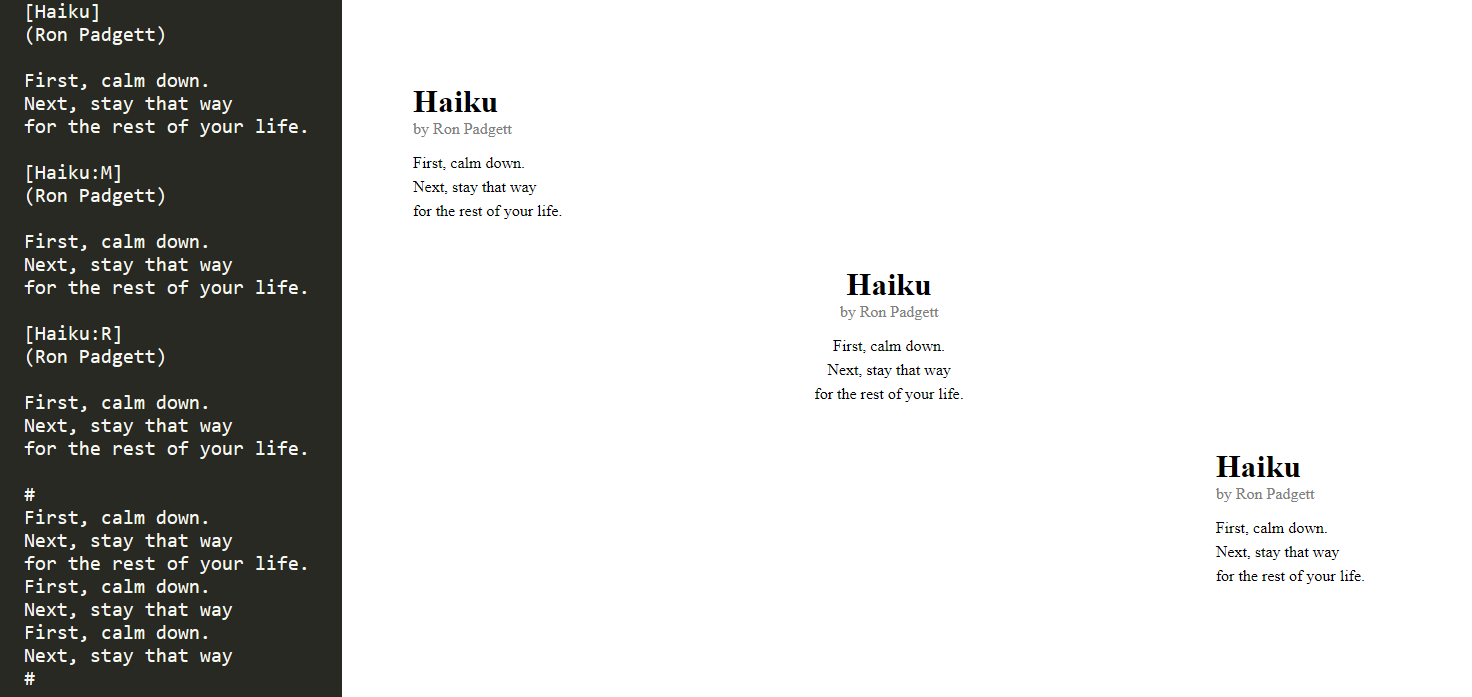
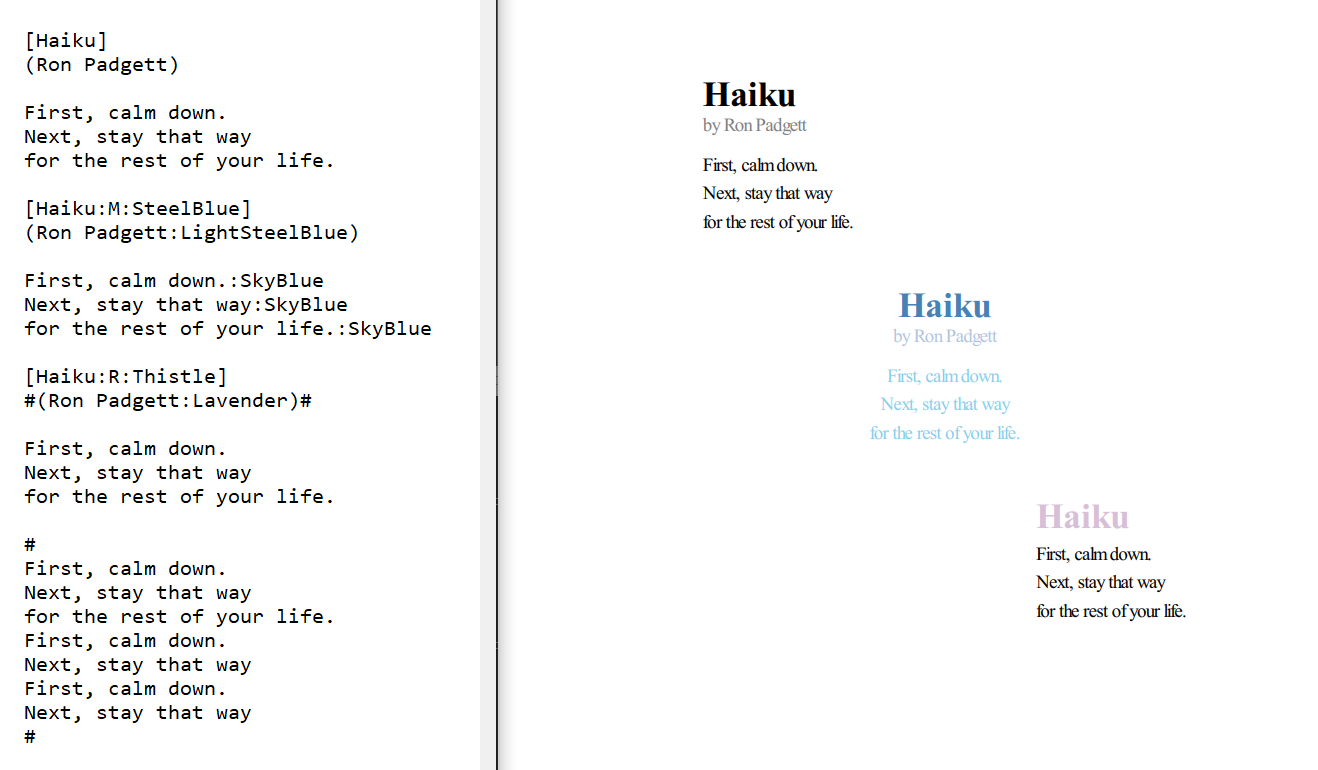
NEW: Add HTML Colors

diff --git a/haiku.html b/haiku.html
@@ -5,26 +5,25 @@
 <body>
 <div class="haiku" style="margin: auto; width: 50%;">
 <br>
-<h1 style="font-weight: bold; margin-bottom: 0px;">Haiku</h1>
-<p style="color:gray;  margin-top: 0px;">by Ron Padgett</p>
-<p style="margin-bottom: 6px; margin-top: 6px;">First, calm down.</p>
-<p style="margin-bottom: 6px; margin-top: 6px;">Next, stay that way</p>
-<p style="margin-bottom: 6px; margin-top: 6px;">for the rest of your life.</p>
+<h1 style="font-weight: bold; margin-bottom: 0px; color: black;">Haiku</h1>
+<p style="color: gray;  margin-top: 0px;">by Ron Padgett</p>
+<p style="margin-bottom: 6px; margin-top: 6px; color: black;">First, calm down.</p>
+<p style="margin-bottom: 6px; margin-top: 6px; color: black;">Next, stay that way</p>
+<p style="margin-bottom: 6px; margin-top: 6px; color: black;">for the rest of your life.</p>
 <br>
 <center>
-<h1 style="font-weight: bold; margin-bottom: 0px;">Haiku</h1>
-<p style="color:gray;  margin-top: 0px;">by Ron Padgett</p>
-<p style="margin-bottom: 6px; margin-top: 6px;">First, calm down.</p>
-<p style="margin-bottom: 6px; margin-top: 6px;">Next, stay that way</p>
-<p style="margin-bottom: 6px; margin-top: 6px;">for the rest of your life.</p>
+<h1 style="font-weight: bold; margin-bottom: 0px; color: SteelBlue;">Haiku</h1>
+<p style="color: LightSteelBlue;  margin-top: 0px;">by Ron Padgett</p>
+<p style="margin-bottom: 6px; margin-top: 6px; color: SkyBlue;">First, calm down.</p>
+<p style="margin-bottom: 6px; margin-top: 6px; color: SkyBlue;">Next, stay that way</p>
+<p style="margin-bottom: 6px; margin-top: 6px; color: SkyBlue;">for the rest of your life.</p>
 <br>
 </center>
 <div style="float: right;">
-<h1 style="font-weight: bold; margin-bottom: 0px;">Haiku</h1>
-<p style="color:gray;  margin-top: 0px;">by Ron Padgett</p>
-<p style="margin-bottom: 6px; margin-top: 6px;">First, calm down.</p>
-<p style="margin-bottom: 6px; margin-top: 6px;">Next, stay that way</p>
-<p style="margin-bottom: 6px; margin-top: 6px;">for the rest of your life.</p>
+<h1 style="font-weight: bold; margin-bottom: 0px; color: Thistle;">Haiku</h1>
+<p style="margin-bottom: 6px; margin-top: 6px; color: black;">First, calm down.</p>
+<p style="margin-bottom: 6px; margin-top: 6px; color: black;">Next, stay that way</p>
+<p style="margin-bottom: 6px; margin-top: 6px; color: black;">for the rest of your life.</p>
 </div>
 </body>
 </html>

diff --git a/settings.py b/settings.py
@@ -9,6 +9,27 @@ comment_symbol = '#'
 middle_marker = ':M'
 right_marker = ':R'
 
+colors = [":IndianRed", ":LightCoral", ":Salmon", ":DarkSalmon", ":LightSalmon", ":Crimson", ":Red", ":FireBrick",
+          ":DarkRed", ":Pink", ":LightPink", ":HotPink", ":DeepPink", ":MediumVioletRed", ":PaleVioletRed",
+          ":LightSalmon", ":Coral", ":Tomato", ":OrangeRed", ":DarkOrange", ":Orange", ":Gold", ":Yellow",
+          ":LightYellow", ":LemonChiffon", ":LightGoldenrodYellow", ":PapayaWhip", ":Moccasin", ":PeachPuff",
+          ":PaleGoldenrod", ":Khaki", ":DarkKhaki", ":Lavender", ":Thistle", ":Plum", ":Violet", ":Orchid", ":Fuchsia",
+          ":Magenta", ":MediumOrchid", ":MediumPurple", ":RebeccaPurple", ":BlueViolet", ":DarkViolet", ":DarkOrchid",
+          ":DarkMagenta", ":Purple", ":Indigo", ":SlateBlue", ":DarkSlateBlue", ":MediumSlateBlue", ":GreenYellow",
+          ":Chartreuse", ":LawnGreen", ":Lime", ":LimeGreen", ":PaleGreen", ":LightGreen", ":MediumSpringGreen",
+          ":SpringGreen", ":MediumSeaGreen", ":SeaGreen", ":ForestGreen", ":Green", ":DarkGreen", ":YellowGreen",
+          ":OliveDrab", ":Olive", ":DarkOliveGreen", ":MediumAquamarine", ":DarkSeaGreen", ":LightSeaGreen",
+          ":DarkCyan", ":Teal", ":Aqua", ":Cyan", ":LightCyan", ":PaleTurquoise", ":Aquamarine", ":Turquoise",
+          ":MediumTurquoise", ":DarkTurquoise", ":CadetBlue", ":SteelBlue", ":LightSteelBlue", ":PowderBlue",
+          ":LightBlue", ":SkyBlue", ":LightSkyBlue", ":DeepSkyBlue", ":DodgerBlue", ":CornflowerBlue",
+          ":MediumSlateBlue", ":RoyalBlue", ":Blue", ":MediumBlue", ":DarkBlue", ":Navy", ":MidnightBlue",
+          ":Cornsilk", ":BlanchedAlmond", ":Bisque", ":NavajoWhite", ":Wheat", ":BurlyWood", ":Tan", ":RosyBrown",
+          ":SandyBrown", ":Goldenrod", ":DarkGoldenrod", ":Peru", ":Chocolate", ":SaddleBrown", ":Sienna", ":Brown",
+          ":Maroon", ":White", ":Snow", ":HoneyDew", ":MintCream", ":Azure", ":AliceBlue", ":GhostWhite", ":WhiteSmoke",
+          ":SeaShell", ":Beige", ":OldLace", ":FloralWhite", ":Ivory", ":AntiqueWhite", ":Linen", ":LavenderBlush",
+          ":MistyRose", ":Gainsboro", ":LightGray", ":Silver", ":DarkGray", ":Gray", ":DimGray", ":LightSlateGray",
+          ":SlateGray", ":DarkSlateGray", ":Black"]
+
 
 def get_header_start_symbol():
     return header_start_symbol

diff --git a/processor.py b/processor.py
@@ -43,9 +43,21 @@ def process_line(line):
     """
     helper function for process_file
     """
+
+    # get color
+    color = ""
+    for col in settings.colors:
+        if col in line:
+            line = line.replace(col, '')
+            color = col[1:]
+            break
+
     # check if header
     if line.startswith(settings.get_header_start_symbol()) and line.endswith(settings.get_header_end_symbol()):
         document_handler.append_opening_tag("br")
+
+        if not color:
+            color = "black"
 
         global is_centered
         global to_right
@@ -62,17 +74,21 @@ def process_line(line):
         if settings.get_middle_marker() in line:
             is_centered = True
             document_handler.append_opening_tag("center")
-            document_handler.append_header(line[1:-3])
+            document_handler.append_header(line[1:-3], color)
         elif settings.get_right_marker() in line:
             to_right = True
             document_handler.append("<div style=\"float: right;\">")
-            document_handler.append_header(line[1:-3])
+            document_handler.append_header(line[1:-3], color)
         else:
-            document_handler.append_header(line[1:-1])
+            document_handler.append_header(line[1:-1], color)
     elif line.startswith(settings.get_author_start_symbol()) and line.endswith(settings.get_author_end_symbol()):
-        document_handler.append_author(line[1:-1])
+        if not color:
+            color = "gray"
+        document_handler.append_author(line[1:-1], color)
     else:
-        document_handler.append_paragraph(line)
+        if not color:
+            color = "black"
+        document_handler.append_paragraph(line, color)
 
 
 def main():

diff --git a/document_handler.py b/document_handler.py
@@ -37,27 +37,27 @@ def append_title(title):
     content.append(processed_line)
 
 
-def append_header(line):
+def append_header(line, color):
     """
-    appends opening and closing header-tag containing given content (in bold) to document
+    appends opening and closing header-tag containing given content (in bold & given color) to document
     """
-    processed_line = "<h1 style=\"font-weight: bold; margin-bottom: 0px;\">" + line + "</h1>"
+    processed_line = "<h1 style=\"font-weight: bold; margin-bottom: 0px; color: " + color + ";\">" + line + "</h1>"
     content.append(processed_line)
 
 
-def append_author(line):
+def append_author(line, color):
     """
-    appends opening and closing p-tag containing given content (in gray) to document
+    appends opening and closing p-tag containing given content (in given color) to document
     """
-    processed_line = "<p style=\"color:gray;  margin-top: 0px;\">by " + line + "</p>"
+    processed_line = "<p style=\"color: " + color + ";  margin-top: 0px;\">by " + line + "</p>"
     content.append(processed_line)
 
 
-def append_paragraph(line):
+def append_paragraph(line, color):
     """
-    appends opening and closing p-tag containing given content to document
+    appends opening and closing p-tag containing given content (in given color) to document
     """
-    processed_line = "<p style=\"margin-bottom: 6px; margin-top: 6px;\">" + line + "</p>"
+    processed_line = "<p style=\"margin-bottom: 6px; margin-top: 6px; color: " + color + ";\">" + line + "</p>"
     content.append(processed_line)
 
 
